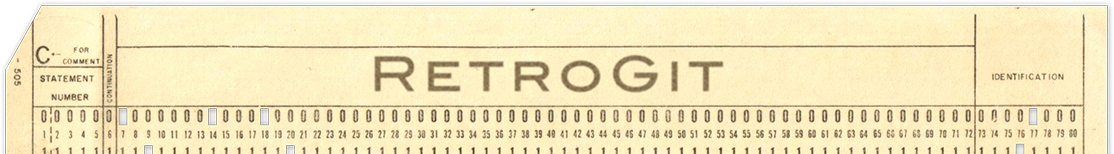
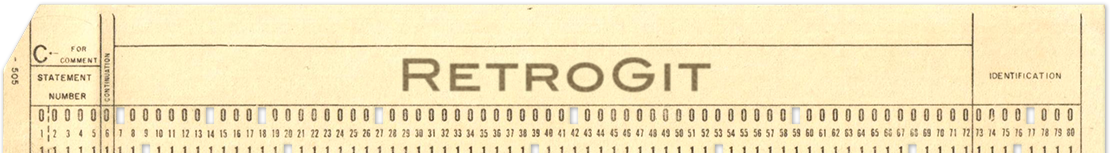
Switch to new header image.

diff --git a/app/templates/base/page.html b/app/templates/base/page.html
@@ -9,7 +9,7 @@
 </head>
 <body>
   <div class="header">
-    <img src="/static/images/header.png" srcset="/static/images/header.png 1x, /static/images/header@2x.png 2x" width="1114" height="154" alt="GitHop">
+    <img src="/static/images/header.png" srcset="/static/images/header.png 1x, /static/images/header@2x.png 2x" width="1111" height="153" alt="GitHop">
   </div>
 
   <div class="body-background">

diff --git a/app/static/main.css b/app/static/main.css
@@ -33,7 +33,7 @@ a {
   position: absolute;
   top: 10px;
   left: 50%;
-  margin-left: -557px;
+  margin-left: -555px;
 }
 
 .body-background {
